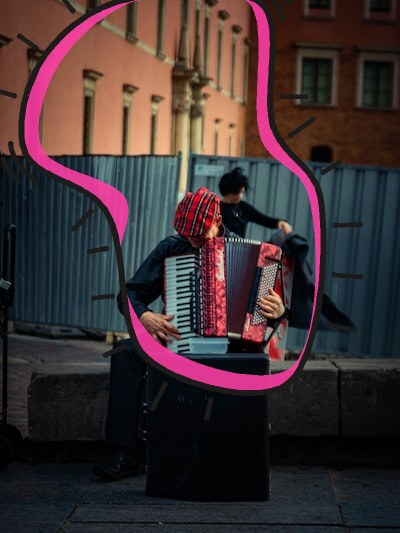
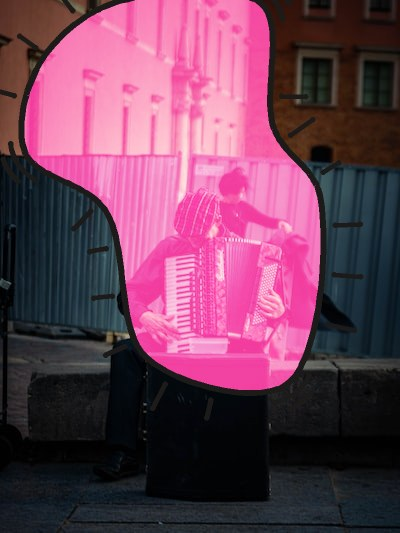
photo/aplats : figures.py en multiply + screen, comme la version web
pop.paint sait poser un aplat en screen. Sur fond sombre, figures.py ne
peint plus un halo autour du sujet : la couleur remplit toute la forme
en screen et le sujet reste lisible au travers. --dark halo garde
l'ancien rendu. Planches de figures régénérées avec leurs graines.

Claude-Session: https://claude.ai/code/session_019a3GfqsxVAEvSqYWDAZWCo

diff --git a/photo/aplats/figures.py b/photo/aplats/figures.py
@@ -9,8 +9,10 @@ vibre.
    palette vive (`--palette pop` pour celle des autres scripts), légèrement
    décalée comme un repérage raté de sérigraphie. Sur un fond clair,
    fusion multiply : la couleur éclate et le sujet reste lisible au travers.
-   Sur un fond sombre, où le multiply ne donnerait rien, l'aplat devient un
-   halo couvrant autour du sujet.
+   Sur un fond sombre, où le multiply ne donnerait rien, fusion screen : la
+   couleur éclaircit la photo, le noir prend la couleur pure et le sujet
+   reste lisible au travers (`--dark halo` : un halo couvrant autour du sujet
+   à la place, comme avant).
    La silhouette n'est pas un masque de pixels : son contour est réduit à
    quelques points de passage, et une courbe lisse les relie.
 3. La silhouette est cernée d'un gros trait noir chaud, de largeur constante.
@@ -34,6 +36,9 @@ def add_args(ap) -> None:
                     help="nombre d'angles soulignés par des arcs")
     ap.add_argument("--palette", choices=sorted(pop.PALETTES), default="vive",
                     help="couleurs des aplats : vive (défaut) ou pop, celle des autres scripts")
+    ap.add_argument("--dark", choices=("screen", "halo"), default="screen",
+                    help="sur fond sombre : aplat en screen (défaut) ou halo "
+                         "couvrant autour du sujet")
     ap.add_argument("--detail", type=float, default=0.03,
                     help="tolérance de simplification du contour, en part de la "
                          "diagonale : plus grand = moins de points de passage")
@@ -69,7 +74,9 @@ def render(photo, rng, args):
         # Le bord intérieur du halo n'est pas cerné de noir : lui reste lissé.
         core = pop.fill_alpha(box, inner, ss=2) if inner is not None else fill * 0
         mode, alpha = pop.blend_for(photo[y0:y1, x0:x1], (fill > 0.5) & (core < 0.5))
-        if mode == "normal":                 # fond sombre : halo couvrant,
+        if mode == "normal" and args.dark == "screen":
+            mode, alpha = "screen", 0.95     # fond sombre : la couleur éclaircit
+        elif mode == "normal":               # ou halo couvrant,
             fill = fill * (1 - core)         # le sujet reste visible
         pop.paint(canvas, fill, color, mode, alpha, box=box)
         curves.append(curve)

diff --git a/photo/aplats/pop.py b/photo/aplats/pop.py
@@ -282,7 +282,9 @@ def soft(m: np.ndarray) -> np.ndarray:
 
 def paint(canvas: np.ndarray, mask: np.ndarray, color: str,
           mode: str = "multiply", opacity: float = 1.0, box: tuple | None = None) -> None:
-    """Pose un aplat. multiply : la photo transparaît ; normal : il la couvre.
+    """Pose un aplat. multiply : la couleur fonce la photo, qui transparaît ;
+    screen : elle l'éclaircit (sur du noir, la couleur pure) ; normal : il la
+    couvre.
 
     Avec `box` (x0, y0, x1, y1), `mask` ne couvre que ce rectangle et seul lui
     est recalculé : le reste de l'image n'est pas touché.
@@ -297,9 +299,16 @@ def paint(canvas: np.ndarray, mask: np.ndarray, color: str,
     sel = alpha > 0
     if sel.mean() < 0.4:
         px, a = canvas[sel], alpha[sel][:, None]
-        canvas[sel] = px * (1 - a * (1 - c)) if mode == "multiply" else px + (c - px) * a
+        if mode == "multiply":
+            canvas[sel] = px * (1 - a * (1 - c))
+        elif mode == "screen":
+            canvas[sel] = 1 - (1 - px) * (1 - a * c)
+        else:
+            canvas[sel] = px + (c - px) * a
     elif mode == "multiply":
         canvas *= 1 - alpha[..., None] * (1 - c)
+    elif mode == "screen":
+        canvas[:] = 1 - (1 - canvas) * (1 - alpha[..., None] * c)
     else:
         canvas += (c - canvas) * alpha[..., None]
 

diff --git a/photo/aplats/README.md b/photo/aplats/README.md
@@ -34,7 +34,7 @@ python3 plages.py photo.jpg --seed 2005          # rejoue un tirage précis
 
 Options communes : `-o` (dossier de sortie), `--seed`, `--variants`,
 `--max-size`, `--quality`. Chaque passage complète `output/<script>/seeds.json`.
-Options propres : `figures.py --subjects 3 --no-rays --corners 3 --detail 0.03 --palette vive|pop` ·
+Options propres : `figures.py --subjects 3 --no-rays --corners 3 --detail 0.03 --palette vive|pop --dark screen|halo` ·
 `ondes.py --rings 3 --mode auto|multiply|normal` ·
 `plages.py --levels 6 --blank 0.2 --dark 0.22 --no-protect`.
 
@@ -78,7 +78,9 @@ bouts ronds, dessiné en sur-échantillonnage pour l'antialiasing.
 
 **La fusion** (`pop.blend_for`) : sur une zone claire, l'aplat est en
 *multiply* — la couleur éclate et la photo reste visible au travers. Sur une
-zone sombre le multiply ne donnerait rien : l'aplat devient couvrant.
+zone sombre le multiply ne donnerait rien : l'aplat devient couvrant dans
+`ondes.py` et `plages.py` ; dans `figures.py` il passe en *screen*, qui
+éclaircit la photo vers la couleur (`--dark halo` pour l'ancien halo couvrant).
 
 ## Dans le navigateur : `web/`
 
@@ -95,8 +97,8 @@ la couleur est posée ; « fond sombre » se mesure autour du sujet, comme dans
 
 | `fill` | Rendu |
 | --- | --- |
-| `screen` (défaut) | multiply sur fond clair, screen sur fond sombre : la couleur fonce le clair et éclaircit le noir |
-| `figures` | multiply sur fond clair, halo sur fond sombre : le choix de `figures.py` |
+| `screen` (défaut) | multiply sur fond clair, screen sur fond sombre : le choix de `figures.py` |
+| `figures` | multiply sur fond clair, halo sur fond sombre : `figures.py --dark halo` |
 | `multiply` | multiply partout : la couleur fonce la photo, qui transparaît |
 | `halo` | halo partout : couleur couvrante autour du sujet, le sujet reste la photo |
 | `transparence` | couleur posée à mi-opacité, sans mode de fusion |
